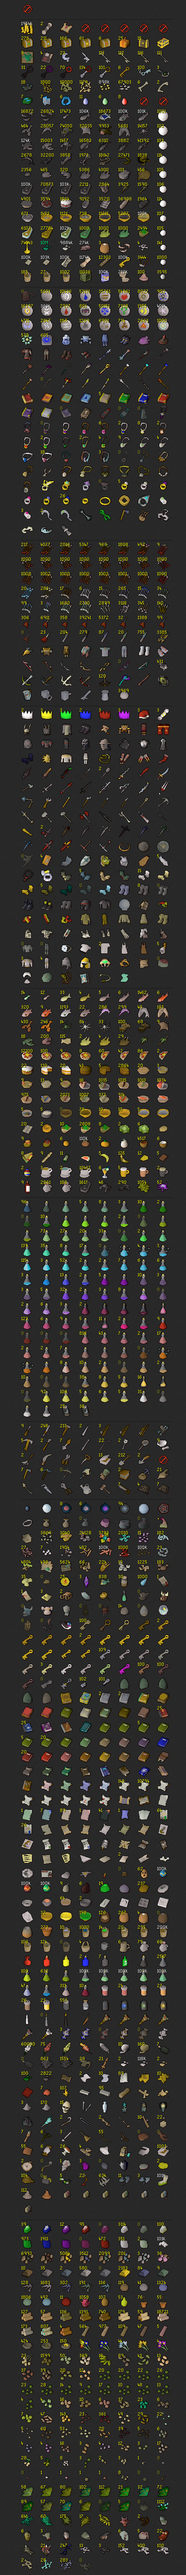
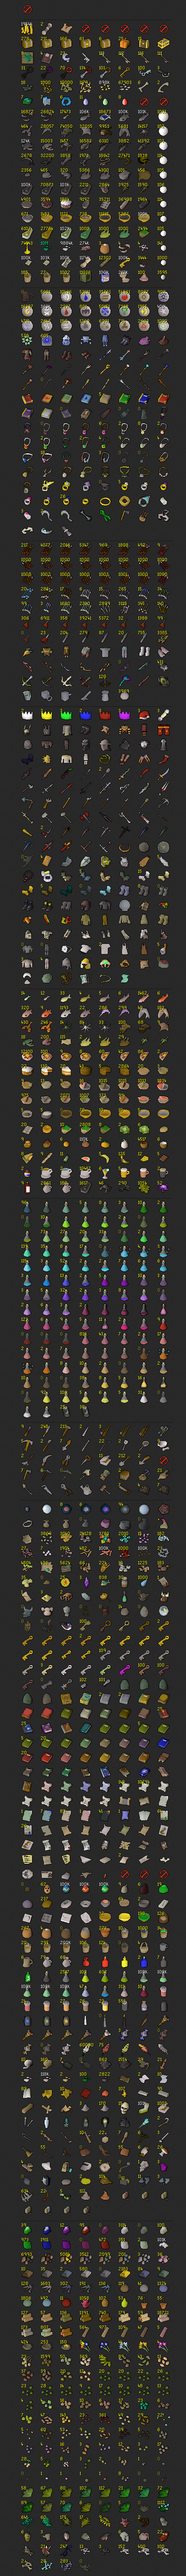
Update the full bank screenshot (tab 5)

diff --git a/secret.md b/secret.md
@@ -342,7 +342,8 @@ b, strong {
 }
 .bank-page {
   display: block;
-  width: 100%;
+  width: auto; /* native size, so no screenshot is ever stretched by a pixel */
+  max-width: 100%;
   height: auto;
   image-rendering: pixelated; /* keep the sprites crisp when the screen scales them up */
 }
@@ -675,7 +676,7 @@ b, strong {
     <img class="bank-page" data-tab="2" src="/assets/img/hobbies/bank-2.png" alt="Bank tab 2" width="460" height="952" hidden>
     <img class="bank-page" data-tab="3" src="/assets/img/hobbies/bank-3.png?v=2" alt="Bank tab 3: keys" width="460" height="408" loading="lazy" hidden>
     <img class="bank-page" data-tab="4" src="/assets/img/hobbies/bank-4.png?v=2" alt="Bank tab 4: books" width="460" height="875" loading="lazy" hidden>
-    <img class="bank-page" data-tab="5" src="/assets/img/hobbies/bank-5.png?v=2" alt="Bank tab 5: the whole bank" width="460" height="6347" loading="lazy" hidden>
+    <img class="bank-page" data-tab="5" src="/assets/img/hobbies/bank-5.png?v=3" alt="Bank tab 5: the whole bank" width="459" height="6348" loading="lazy" hidden>
   </div>
 </div>
 
